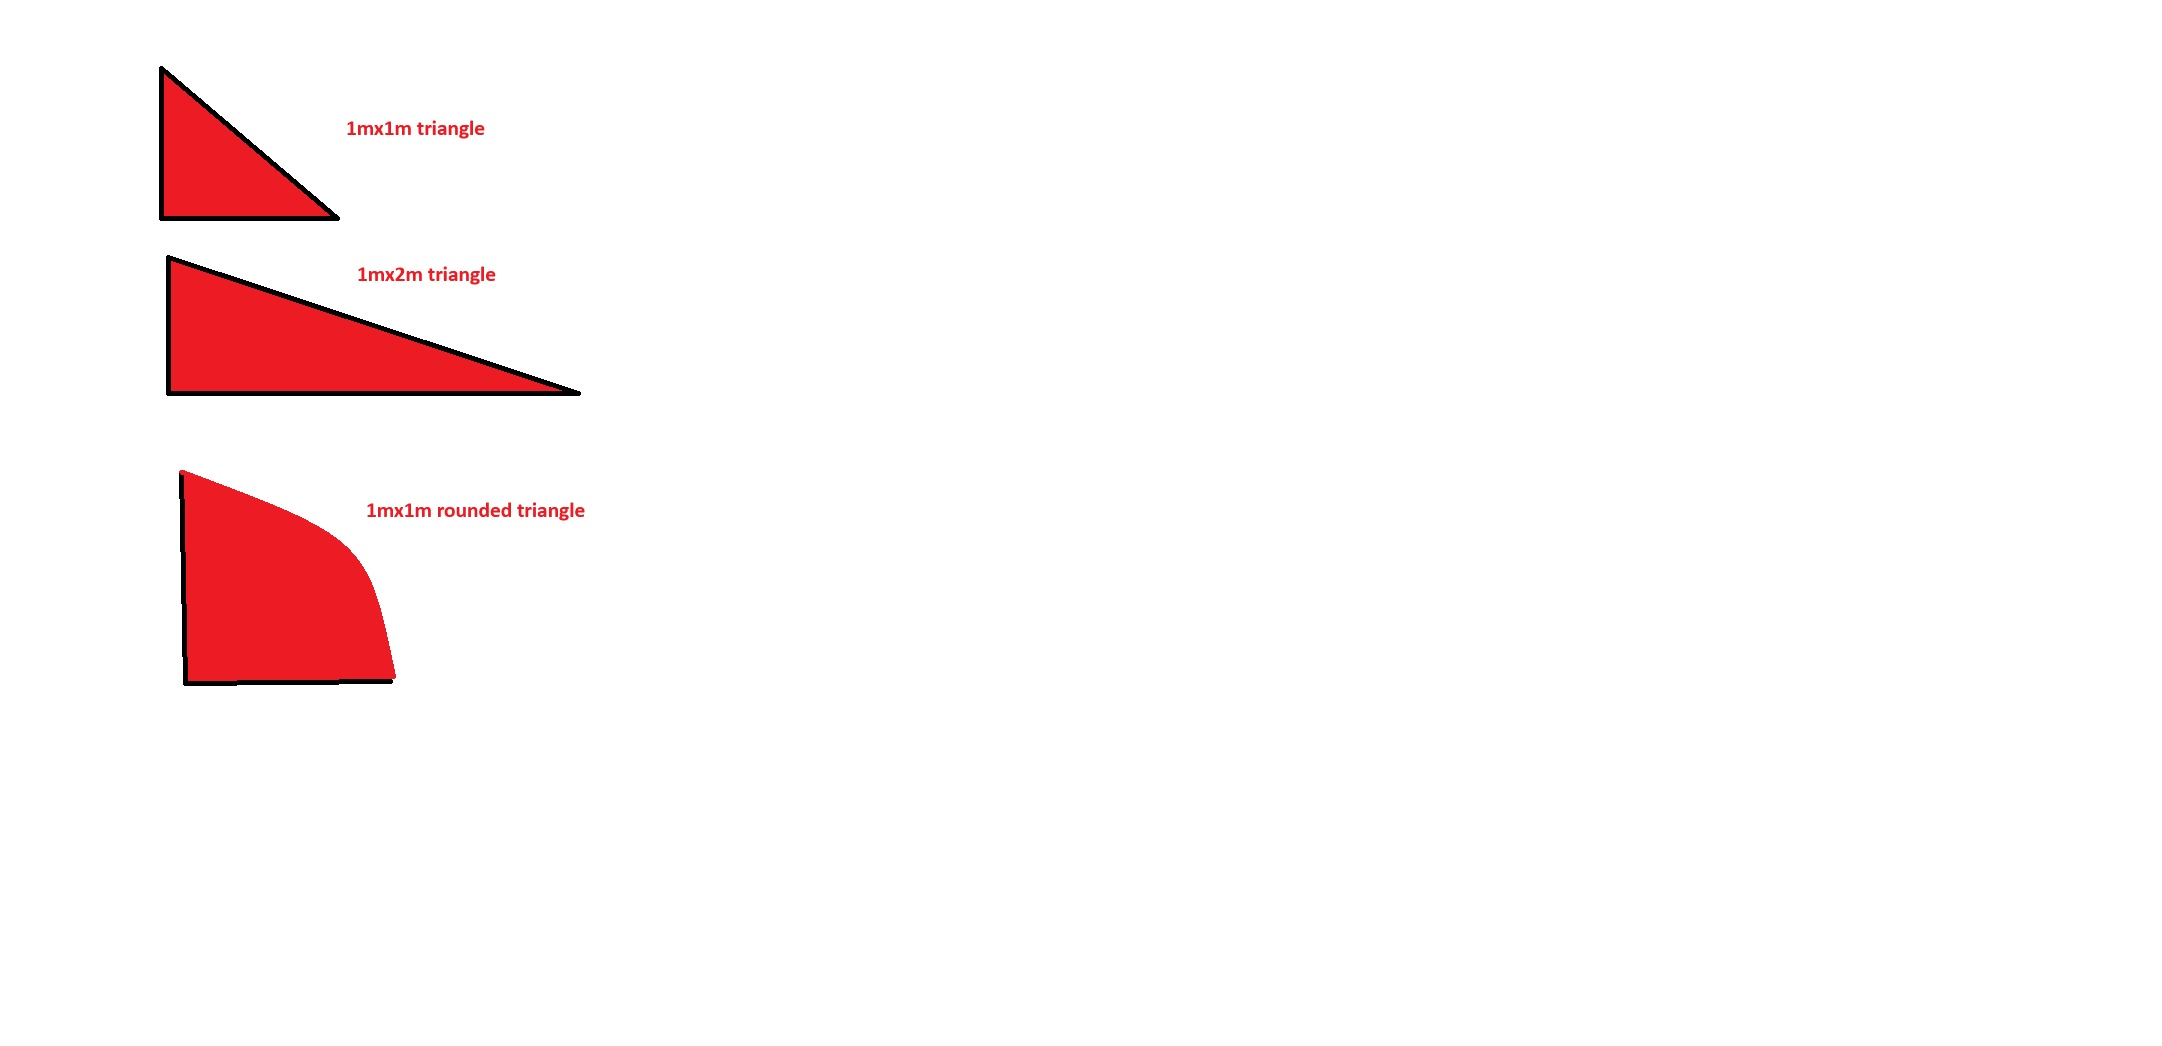
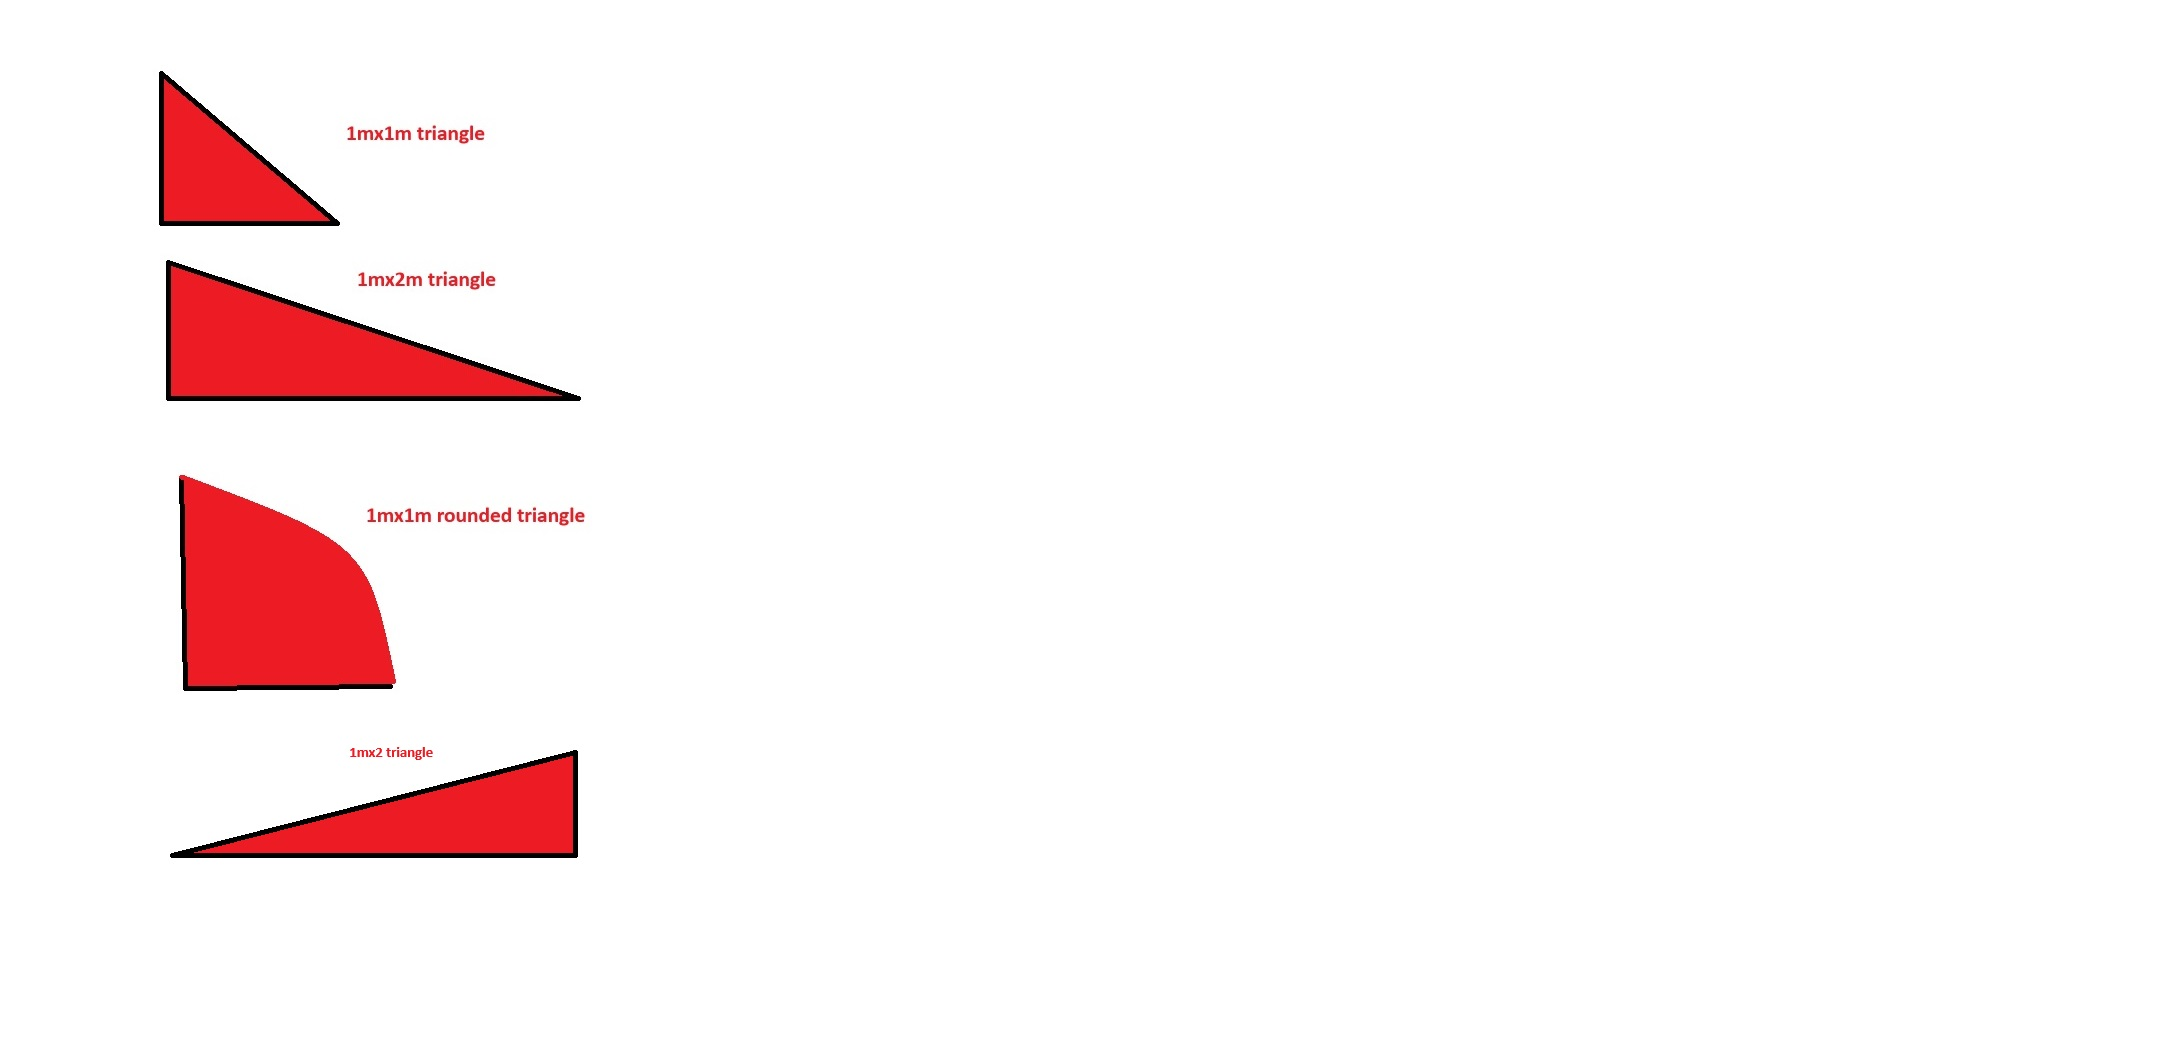
it works

diff --git a/src/components/Workspace.jsx b/src/components/Workspace.jsx
@@ -1,8 +1,10 @@
-import React, { useRef, useState } from 'react';
+import React, { useRef, useState, useEffect } from 'react';
 
 export default function Workspace({ onDragOver }) {
   const workspaceRef = useRef(null);
   const [elements, setElements] = useState([]);
+  const [draggingElement, setDraggingElement] = useState(null);
+  const [offset, setOffset] = useState({ x: 0, y: 0 });
 
   const handleDrop = (e) => {
     e.preventDefault();
@@ -18,79 +20,171 @@ export default function Workspace({ onDragOver }) {
       type,
       moduleData,
       x,
-      y
+      y,
+      rotation: 0, // Initial rotation angle
     };
 
     setElements((prevElements) => [...prevElements, newElement]);
   };
 
-  const handleDragStartElement = (e, id) => {
-    e.dataTransfer.setData("id", id);
-    console.log('drag start', id);
+  const handleMouseDown = (e, id) => {
+    const element = elements.find(el => el.id === id);
+    if (element) {
+      setDraggingElement(id);
+      const rect = workspaceRef.current.getBoundingClientRect();
+      setOffset({
+        x: e.clientX - rect.left - element.x,
+        y: e.clientY - rect.top - element.y,
+      });
+    }
   };
 
-  const handleDropElement = (e) => {
-    e.preventDefault();
-    const id = e.dataTransfer.getData("id");
-    const rect = workspaceRef.current.getBoundingClientRect();
-    const x = e.clientX - rect.left;
-    const y = e.clientY - rect.top;
+  const handleMouseMove = (e) => {
+    if (draggingElement !== null) {
+      const rect = workspaceRef.current.getBoundingClientRect();
+      let x = e.clientX - rect.left - offset.x;
+      let y = e.clientY - rect.top - offset.y;
 
+      // Constrain the position within the workspace boundaries
+      x = Math.max(0, Math.min(x, rect.width - elements.find(el => el.id === draggingElement).moduleData.width));
+      y = Math.max(0, Math.min(y, rect.height - elements.find(el => el.id === draggingElement).moduleData.length));
+
+      setElements((prevElements) =>
+        prevElements.map((el) =>
+          el.id === draggingElement ? { ...el, x, y } : el
+        )
+      );
+    }
+  };
+
+  const handleMouseUp = (e) => {
+    const trashRect = document.getElementById('trash').getBoundingClientRect();
+    const elementRect = e.target.getBoundingClientRect();
+
+    if (
+      elementRect.left < trashRect.right &&
+      elementRect.right > trashRect.left &&
+      elementRect.top < trashRect.bottom &&
+      elementRect.bottom > trashRect.top
+    ) {
+      setElements((prevElements) => prevElements.filter(el => el.id !== draggingElement));
+    }
+
+    setDraggingElement(null);
+  };
+
+  const handleRotateElement = (id) => {
     setElements((prevElements) =>
       prevElements.map((el) =>
-        el.id === parseInt(id) ? { ...el, x: x - el.moduleData.width / 2, y: y - el.moduleData.length / 2 } : el
+        el.id === id ? { ...el, rotation: (el.rotation + 90) % 360 } : el
       )
     );
   };
+
+  useEffect(() => {
+    document.addEventListener('mousemove', handleMouseMove);
+    document.addEventListener('mouseup', handleMouseUp);
+    return () => {
+      document.removeEventListener('mousemove', handleMouseMove);
+      document.removeEventListener('mouseup', handleMouseUp);
+    };
+  }, [draggingElement]);
 
   return (
     <div
       className="bg-white m-1 w-full h-full p-4 border relative"
       ref={workspaceRef}
-      onDrop={(e) => { handleDropElement(e); handleDrop(e); }}
+      onDrop={handleDrop}
       onDragOver={(e) => { e.preventDefault(); onDragOver(e); }}
     >
       {elements.map((el) => (
-        <svg
+        <div
           key={el.id}
-          width={el.moduleData.width}
-          height={el.moduleData.length}
-          viewBox={`0 0 ${el.moduleData.width} ${el.moduleData.length}`}
-          xmlns="http://www.w3.org/2000/svg"
-          style={{ position: 'absolute', left: `${el.x}px`, top: `${el.y}px` }}
-          draggable
-          onDragStart={(e) => handleDragStartElement(e, el.id)}
+          style={{
+            position: 'absolute',
+            left: `${el.x}px`,
+            top: `${el.y}px`,
+            cursor: 'grab',
+            transform: `rotate(${el.rotation}deg)`,
+          }}
+          onMouseDown={(e) => handleMouseDown(e, el.id)}
         >
-          {el.type.includes('triangle') ? (
-            <path
-              d={getTrianglePoints(el.type, el.moduleData.width, el.moduleData.length)}
-              fill="red"
-              stroke="black"
-              strokeWidth="2"
-            />
-          ) : (
-            <rect
-              width={el.moduleData.width}
-              height={el.moduleData.length}
-              fill="red"
-              stroke="black"
-              strokeWidth="2"
-            />
-          )}
-        </svg>
+          <svg
+            width={el.moduleData.width}
+            height={el.moduleData.length}
+            viewBox={`0 0 ${el.moduleData.width} ${el.moduleData.length}`}
+            xmlns="http://www.w3.org/2000/svg"
+          >
+            {el.type.includes('triangle') ? (
+              <path
+                d={getTrianglePoints(el.type, el.moduleData.width, el.moduleData.length)}
+                fill="red"
+                stroke="black"
+                strokeWidth="2"
+              />
+            ) : (
+              <rect
+                width={el.moduleData.width}
+                height={el.moduleData.length}
+                fill="red"
+                stroke="black"
+                strokeWidth="2"
+              />
+            )}
+          </svg>
+          <button
+            onClick={() => handleRotateElement(el.id)}
+            style={{
+              position: 'absolute',
+              top: '0',
+              right: '0',
+              cursor: 'pointer',
+              background: 'blue',
+              color: 'white',
+              border: 'none',
+              borderRadius: '50%',
+              width: '20px',
+              height: '20px',
+              zIndex: 1,
+            }}
+          >
+            ↻
+          </button>
+        </div>
       ))}
+      <div
+        id="trash"
+        style={{
+          position: 'absolute',
+          bottom: '10px',
+          right: '10px',
+          width: '50px',
+          height: '50px',
+          backgroundColor: 'red',
+          color: 'white',
+          display: 'flex',
+          justifyContent: 'center',
+          alignItems: 'center',
+          borderRadius: '50%',
+          cursor: 'pointer',
+        }}
+      >
+        🗑
+      </div>
     </div>
   );
 }
 
 const getTrianglePoints = (type, width, length) => {
   switch (type) {
-    case 'triangle1m':
+    case 'triangle':
       return `M0,${length} L${width},0 L${width},${length} Z`;
-    case 'triangle2m':
+    case 'triangle lift':
       return `M0,${length} L${width},${length} L${width},0 Z`;
     case 'rounded triangle':
       return `M0,${length} L${width},${length} L${width},0 Q0,0 0,${length} Z`;
+    case 'triangle right':
+      return `M0,0 L${width},${length} L0,${length} Z`;
     default:
       return '';
   }

diff --git a/src/layout/ContentMain.jsx b/src/layout/ContentMain.jsx
@@ -10,8 +10,9 @@ export default function ContentMain() {
     { id: '3', type: 'square', dimensions: '0.5m x 1m', width: 20, length: 40 },
     { id: '5', type: 'square', dimensions: '1m x 1m', width: 40, length: 40 },
     { id: '7', type: 'rounded triangle', dimensions: '1m x 1m', width: 40, length: 40 },
-    { id: '8', type: 'triangle1m', dimensions: '1m x 1m', width: 40, length: 40 },
-    { id: '10', type: 'triangle2m', dimensions: '1m x 2m', width: 40, length: 80 }
+    { id: '8', type: 'triangle', dimensions: '1m x 1m', width: 40, length: 40 },
+    { id: '10', type: 'triangle lift', dimensions: '1m x 2m', width: 40, length: 80 },
+    { id: '10', type: 'triangle right', dimensions: '1m x 2m', width: 40, length: 80 }
   ]);
 
   const handleDragStart = (e, module) => {

diff --git a/src/components/StageModule.jsx b/src/components/StageModule.jsx
@@ -3,7 +3,7 @@ import React from 'react';
 export default function StageModule({ module, onDragStart }) {
   return (
     <div
-      draggable
+      draggable='true'
       onDragStart={(e) => onDragStart(e, module)}
       className='text-center m-1 border rounded cursor-pointer p-2'
     >
